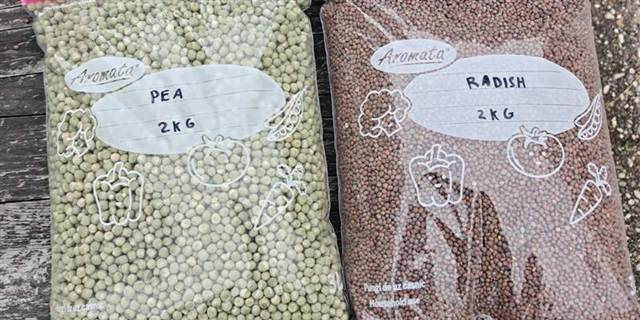
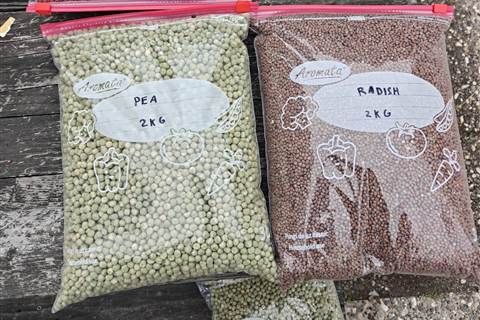
Greece page: closing photos side by side, new captions, wider seed crop
The two closing photos keep their own shapes (2:1 stall, 3:2 seed bags)
in columns sized 2 : 1.5, so they sit side by side at the same height.
New captions, the seed photo zoomed out to show both bags, and the
heading now reads "An invitation to grassroots organisations".

diff --git a/greece.html b/greece.html
@@ -246,7 +246,7 @@
           </p>
         </div>
 
-        <h3>An invitation to other organisations</h3>
+        <h3>An invitation to grassroots organisations</h3>
         <div class="prose flow">
           <p>
             We are looking to bring this programme to more camps across Greece.
@@ -273,13 +273,13 @@
             <img src="img/greece-stall-signs.jpg" loading="lazy"
                  alt="Trays of pea and radish microgreens on a table behind cardboard signs reading: free seeds, grow in 7 to 12 days, more vitamins, in English, Arabic, Bengali and French."
                  width="640" height="320">
-            <figcaption>The seed stall on Samos, November 2026</figcaption>
+            <figcaption>Distributing seeds outside Zervou Camp, October 2026</figcaption>
           </figure>
           <figure class="figure">
             <img src="img/greece-seed-bags.jpg" loading="lazy"
                  alt="Two clear 2kg bags of seed, one of dried peas and one of radish seed, labelled by hand."
-                 width="640" height="320">
-            <figcaption>Seed ready to send: 2kg each of pea and radish</figcaption>
+                 width="480" height="320">
+            <figcaption>Seeds packed and ready to be shipped</figcaption>
           </figure>
         </div>
       </div>

diff --git a/css/style.css b/css/style.css
@@ -1039,14 +1039,17 @@ a:hover {
 /* For a photograph that wants to sit in a little from the column edges. */
 .figure--narrow { max-width: 40rem; }
 
-/* Two small photos side by side, at every width: at the foot of greece.html. */
+/* Two small photos side by side, at every width: at the foot of greece.html.
+   The photos keep their own shapes (2:1 stall, 3:2 seed bags), and the
+   columns are sized in the same 2 : 1.5 ratio so both come out the same
+   height. */
 .figure-pair {
   display: grid;
-  grid-template-columns: 1fr 1fr;
+  grid-template-columns: 2fr 1.5fr;
   gap: var(--sp-4);
   max-width: var(--measure);
 }
-.figure-pair .figure img { aspect-ratio: 2 / 1; }
+.figure-pair .figure img { aspect-ratio: auto; height: auto; }
 
 /* A photo set beside its text, alternating sides down greece.html, so the
    page reads as text with pictures rather than a stack of large photos.
